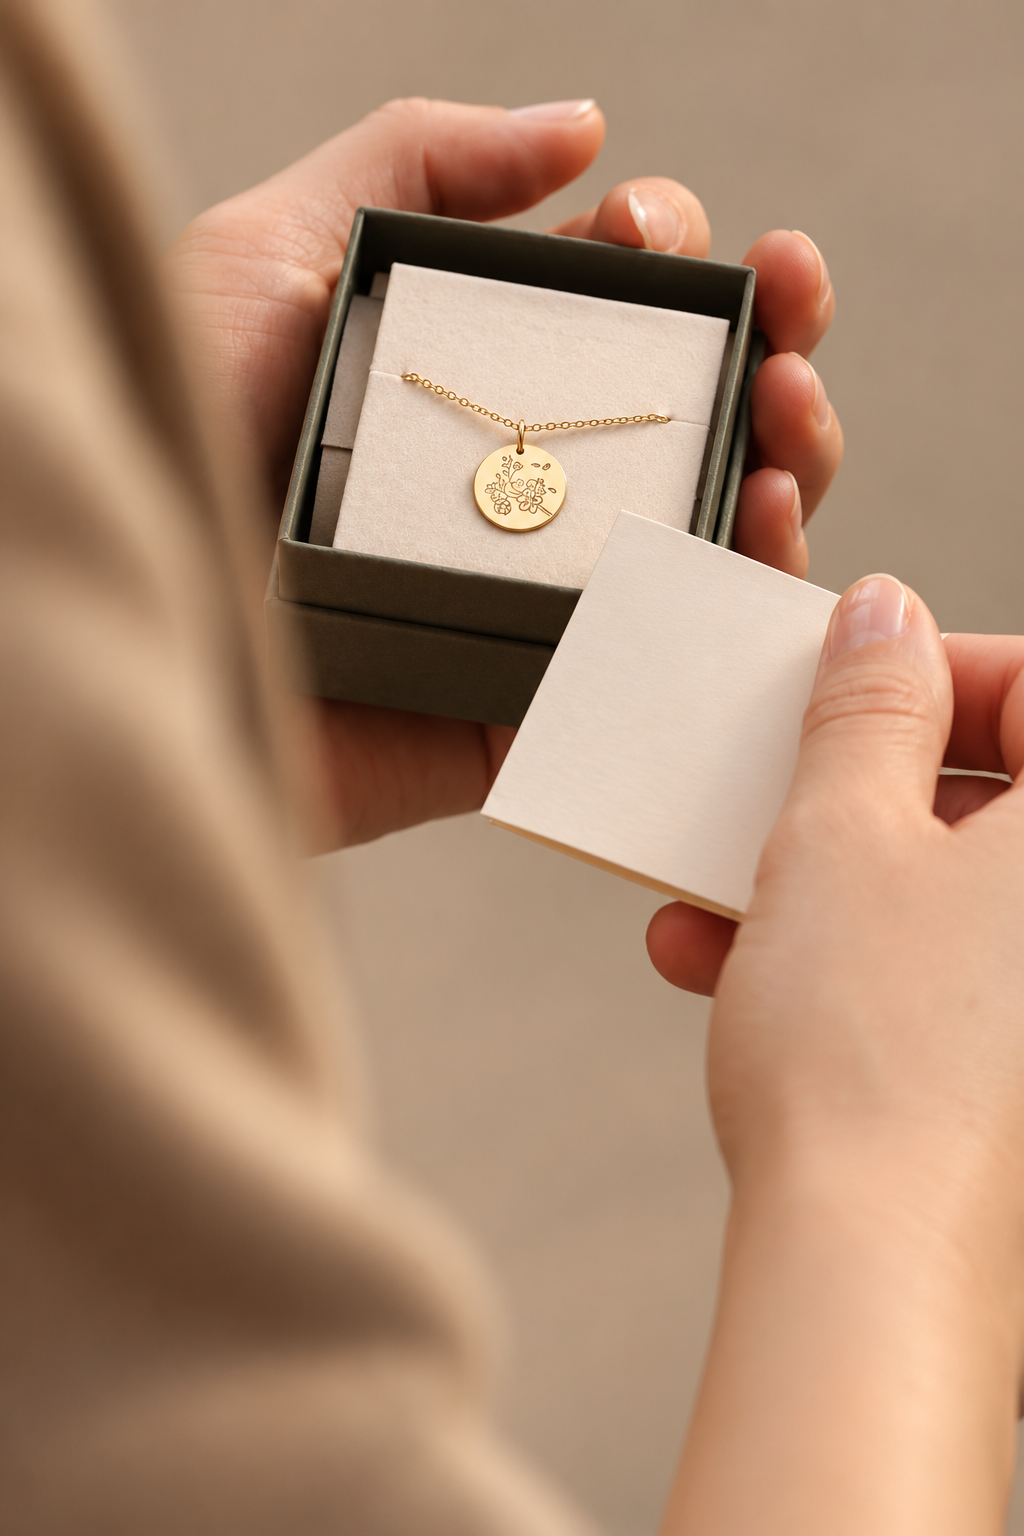
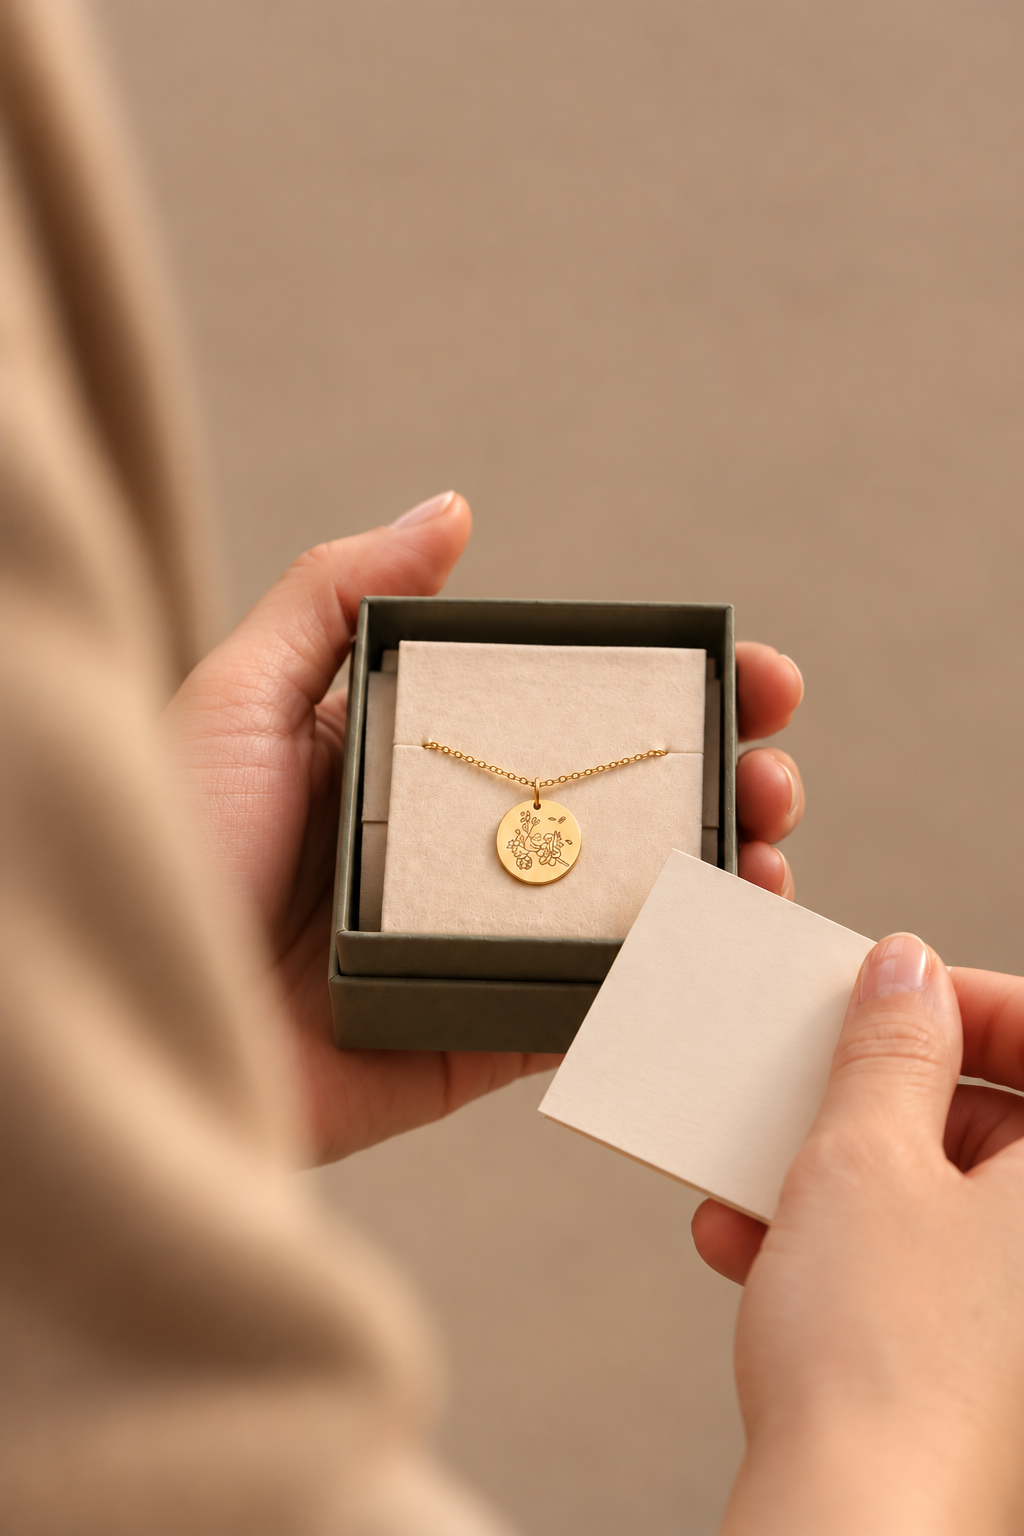
added cart context with local storage, quantity updates, item removal and total calculations

diff --git a/src/context/CartContext.jsx b/src/context/CartContext.jsx
@@ -1,0 +1,73 @@
+import { createContext, useState, useEffect, useMemo, useState } from 'react';
+import products from '../data/products';
+
+const CartContext = createContext(null);
+const KEY = 'lune-luster-cart';
+
+function load() {
+    try {
+        //local storage stores data as strings, so parse it to a JS object
+        const saved = JSON.parse(localStorage.getItem(KEY));
+        //restores the previous cart
+        return Array.isArray(saved) ? saved : [];
+    } catch {
+        return [];
+    }
+}
+
+export function CartProvider({ children }) {
+    //each item
+    const [items, setItems] = useState(load);
+
+  // save every change
+  useEffect(() => {
+    try { 
+        //convery to string and save to local storage
+        localStorage.setItem(KEY, JSON.stringify(items)); 
+    } catch { 
+    }    
+  }, [items]);
+
+  //increase the quantity of a product of the same color
+  const addItem = (id, color, qty = 1) =>
+    setItems((prev) => {
+        const found = prev.find((i) => i.id === id && i.color === color); 
+        if (found) return prev.map((i) => (i === found ? { ...i, qty: Math.min(10, i.qty + qty ) } : i));
+        return [...prev, { id, color, qty }];
+    });
+
+    //setQty goes through the existing cart array, finds the item matching the given id and color,
+    //and updates its quantity while keeping its other properties unchanged.
+    //It restricts the quantity to a minimum of 1 and a maximum of 10; all other items remain unchanged
+  const setQty = (id, color, qty) =>
+    setItems((prev) =>
+        prev.map((i) => (i.id === id && i.color === color ? { ...i, qty: Math.max(1, Math.min(10, qty)) } : i ))
+    );
+
+    //It takes the ID and color passed into the function and compares them with each item's ID and color in the existing cart (prev).
+    //If both match, the item is removed; The unmatched ones are kept in a new array created by .filter().
+    const removeItem = (id, color) => setItems((prev) => prev.filter((i) => !(i.id === id && i.color === color)));
+    const clear = () => setItems([]);
+
+    const lines = useMemo(
+        () =>
+            items.map((i) => {
+                const product = products.find((p) => p.id === i.id);
+                return product ? { ...i, product } : null;
+            })
+            .filter(Boolean),
+        [items]
+    );
+
+    const count = lines.reduce((sum, l) => sum + l.qty, 0);
+    const subtotal = lines.reduce((sum, l) => sum + l.qty * l.product.price, 0);
+
+    return (
+    <CartContext.Provider value={{ lines, count, subtotal, addItem, setQty, removeItem, clear }}>
+      {children}
+    </CartContext.Provider>
+  );
+}
+
+export const useCart = () => useContext(CartContext);
+}
